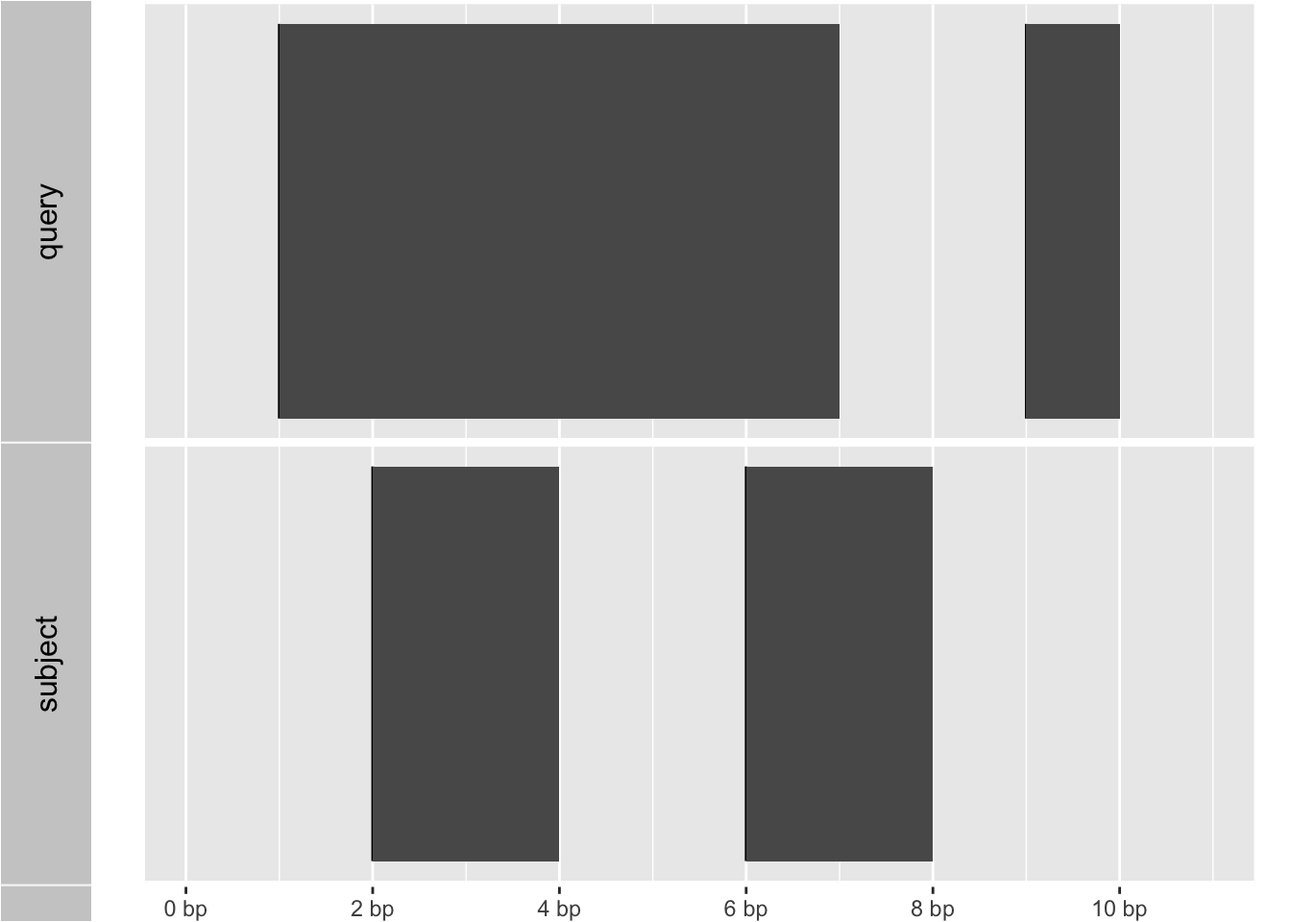
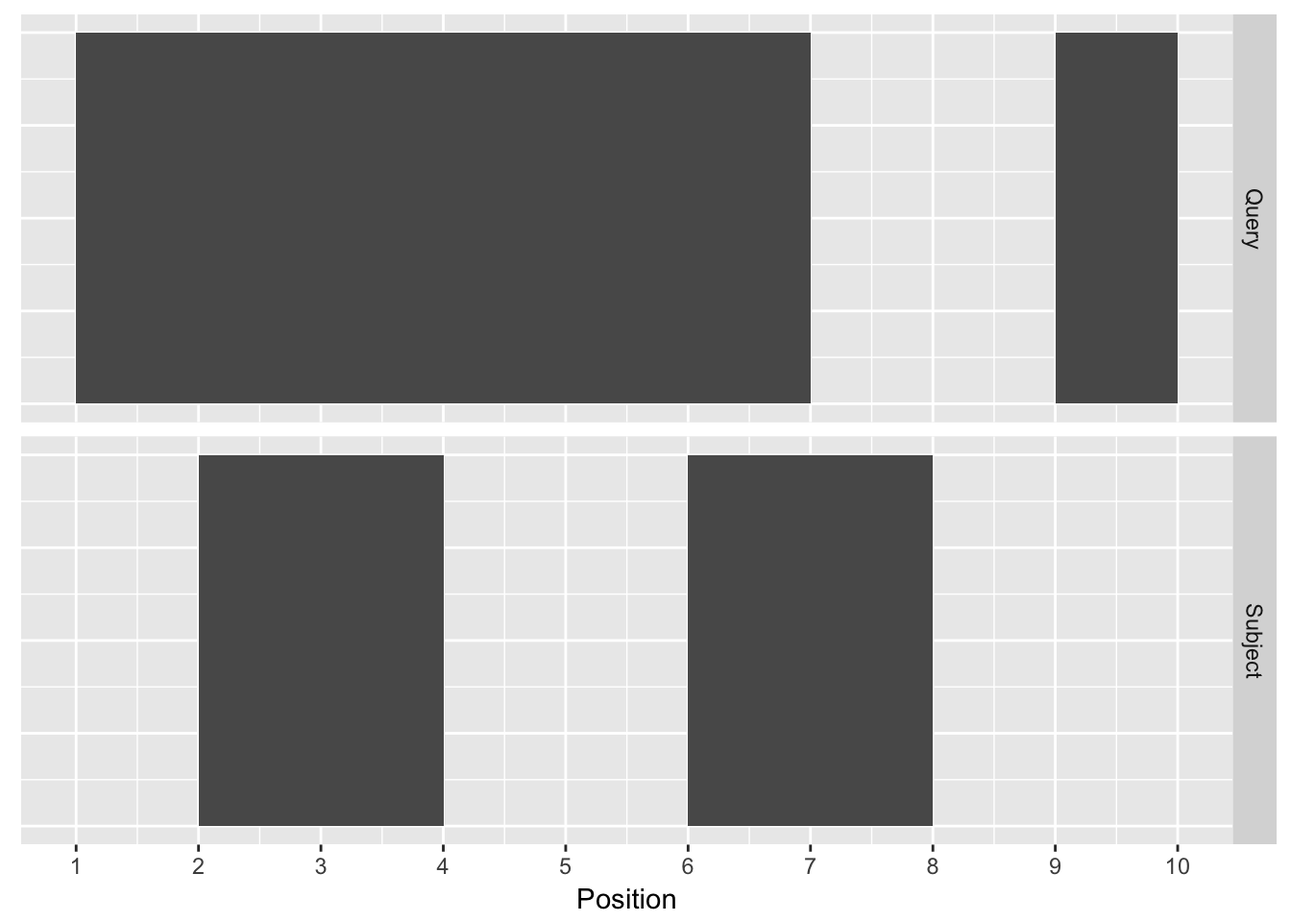
get rid of ggbio

diff --git a/docs/articles/an-introduction.html b/docs/articles/an-introduction.html
@@ -383,9 +383,23 @@ Query and Subject Ranges
 ##   [2]     chr1    [6, 7]      + |        a        B
 ##   -------
 ##   seqinfo: 1 sequence from an unspecified genome; no seqlengths</code></pre>
+<div class="sourceCode" id="cb54"><pre class="sourceCode r"><code class="sourceCode r"><a class="sourceLine" id="cb54-1" data-line-number="1">intersect_df &lt;-<span class="st"> </span><span class="kw">as.data.frame</span>(intersect_rng)[, <span class="op">-</span><span class="kw">c</span>(<span class="dv">6</span>,<span class="dv">7</span>)]</a>
+<a class="sourceLine" id="cb54-2" data-line-number="2">intersect_df<span class="op">$</span>key &lt;-<span class="st"> "Intersect Join"</span></a>
+<a class="sourceLine" id="cb54-3" data-line-number="3">melted_ranges &lt;-<span class="st"> </span><span class="kw">rbind</span>(query_df, subject_df, intersect_df)</a>
+<a class="sourceLine" id="cb54-4" data-line-number="4">melted_ranges<span class="op">$</span>key &lt;-<span class="st"> </span><span class="kw">factor</span>(melted_ranges<span class="op">$</span>key, </a>
+<a class="sourceLine" id="cb54-5" data-line-number="5">                              <span class="dt">levels =</span> <span class="kw">c</span>(<span class="st">"Query"</span>, <span class="st">"Subject"</span>, <span class="st">"Intersect Join"</span>))</a>
+<a class="sourceLine" id="cb54-6" data-line-number="6"><span class="kw">ggplot</span>(melted_ranges, <span class="kw">aes</span>(<span class="dt">xmin =</span> start, <span class="dt">xmax =</span> end, <span class="dt">ymin =</span> <span class="dv">1</span>, <span class="dt">ymax =</span> <span class="dv">3</span>)) <span class="op">+</span></a>
+<a class="sourceLine" id="cb54-7" data-line-number="7"><span class="st">  </span><span class="kw">geom_rect</span>() <span class="op">+</span><span class="st"> </span></a>
+<a class="sourceLine" id="cb54-8" data-line-number="8"><span class="st">  </span><span class="kw">facet_grid</span>(key <span class="op">~</span><span class="st"> </span>.) <span class="op">+</span></a>
+<a class="sourceLine" id="cb54-9" data-line-number="9"><span class="st">  </span><span class="kw">scale_x_continuous</span>(<span class="dt">breaks =</span> <span class="kw">seq</span>(<span class="dv">1</span>, <span class="dv">10</span>, <span class="dt">by =</span> <span class="dv">1</span>)) <span class="op">+</span></a>
+<a class="sourceLine" id="cb54-10" data-line-number="10"><span class="st">  </span><span class="kw">xlab</span>(<span class="st">"Position"</span>) <span class="op">+</span></a>
+<a class="sourceLine" id="cb54-11" data-line-number="11"><span class="st">  </span><span class="kw">theme</span>(<span class="dt">axis.text.y =</span> <span class="kw">element_blank</span>(),</a>
+<a class="sourceLine" id="cb54-12" data-line-number="12">        <span class="dt">axis.ticks.y =</span> <span class="kw">element_blank</span>(),</a>
+<a class="sourceLine" id="cb54-13" data-line-number="13">        <span class="dt">axis.title.y =</span> <span class="kw">element_blank</span>())</a></code></pre></div>
+<p><img src="an-introduction_files/figure-html/unnamed-chunk-14-1.png" width="672"></p>
 <p>The <code>join_overlap_inner</code> function will return the <code>Ranges</code> in the query that overlap any <code>Ranges</code> in the subject. Like the <code>join_overlap_intersect</code> function metadata of the subject <code>Range</code> is returned if it overlaps the query.</p>
-<div class="sourceCode" id="cb54"><pre class="sourceCode r"><code class="sourceCode r"><a class="sourceLine" id="cb54-1" data-line-number="1">inner_rng &lt;-<span class="st"> </span><span class="kw"><a href="../reference/overlap-joins.html">join_overlap_inner</a></span>(query, subject)</a>
-<a class="sourceLine" id="cb54-2" data-line-number="2">inner_rng</a></code></pre></div>
+<div class="sourceCode" id="cb55"><pre class="sourceCode r"><code class="sourceCode r"><a class="sourceLine" id="cb55-1" data-line-number="1">inner_rng &lt;-<span class="st"> </span><span class="kw"><a href="../reference/overlap-joins.html">join_overlap_inner</a></span>(query, subject)</a>
+<a class="sourceLine" id="cb55-2" data-line-number="2">inner_rng</a></code></pre></div>
 <pre><code>## GRanges object with 2 ranges and 2 metadata columns:
 ##       seqnames    ranges strand |    key.a    key.b
 ##          &lt;Rle&gt; &lt;IRanges&gt;  &lt;Rle&gt; | &lt;factor&gt; &lt;factor&gt;
@@ -394,12 +408,12 @@ Query and Subject Ranges
 ##   -------
 ##   seqinfo: 1 sequence from an unspecified genome; no seqlengths</code></pre>
 <div class="figure">
-<img src="an-introduction_files/figure-html/unnamed-chunk-15-1.png" alt="Inner Join" width="672"><p class="caption">
+<img src="an-introduction_files/figure-html/unnamed-chunk-16-1.png" alt="Inner Join" width="672"><p class="caption">
 Inner Join
 </p>
 </div>
 <p>We also provide a convienence method called <code>find_overlaps</code> that computes the same result as <code>join_overlap_inner</code>.</p>
-<div class="sourceCode" id="cb56"><pre class="sourceCode r"><code class="sourceCode r"><a class="sourceLine" id="cb56-1" data-line-number="1"><span class="kw"><a href="../reference/ranges-overlaps.html">find_overlaps</a></span>(query, subject)</a></code></pre></div>
+<div class="sourceCode" id="cb57"><pre class="sourceCode r"><code class="sourceCode r"><a class="sourceLine" id="cb57-1" data-line-number="1"><span class="kw"><a href="../reference/ranges-overlaps.html">find_overlaps</a></span>(query, subject)</a></code></pre></div>
 <pre><code>## GRanges object with 2 ranges and 2 metadata columns:
 ##       seqnames    ranges strand |    key.a    key.b
 ##          &lt;Rle&gt; &lt;IRanges&gt;  &lt;Rle&gt; | &lt;factor&gt; &lt;factor&gt;
@@ -409,8 +423,8 @@ Inner Join
 ##   seqinfo: 1 sequence from an unspecified genome; no seqlengths</code></pre>
 <p>The <code>join_overlap_left</code> method will perform an outer left join.</p>
 <p>First any overlaps that are found will be returned similar to <code>join_overlap_inner</code>. Then any non-overlapping ranges will be returned, with missing values on the metadata columns.</p>
-<div class="sourceCode" id="cb58"><pre class="sourceCode r"><code class="sourceCode r"><a class="sourceLine" id="cb58-1" data-line-number="1">left_rng &lt;-<span class="st"> </span><span class="kw"><a href="../reference/overlap-joins.html">join_overlap_left</a></span>(query, subject)</a>
-<a class="sourceLine" id="cb58-2" data-line-number="2">left_rng</a></code></pre></div>
+<div class="sourceCode" id="cb59"><pre class="sourceCode r"><code class="sourceCode r"><a class="sourceLine" id="cb59-1" data-line-number="1">left_rng &lt;-<span class="st"> </span><span class="kw"><a href="../reference/overlap-joins.html">join_overlap_left</a></span>(query, subject)</a>
+<a class="sourceLine" id="cb59-2" data-line-number="2">left_rng</a></code></pre></div>
 <pre><code>## GRanges object with 3 ranges and 2 metadata columns:
 ##       seqnames    ranges strand |    key.a    key.b
 ##          &lt;Rle&gt; &lt;IRanges&gt;  &lt;Rle&gt; | &lt;factor&gt; &lt;factor&gt;
@@ -420,7 +434,7 @@ Inner Join
 ##   -------
 ##   seqinfo: 2 sequences from an unspecified genome; no seqlengths</code></pre>
 <div class="figure">
-<img src="an-introduction_files/figure-html/unnamed-chunk-18-1.png" alt="Inner Join" width="672"><p class="caption">
+<img src="an-introduction_files/figure-html/unnamed-chunk-19-1.png" alt="Inner Join" width="672"><p class="caption">
 Inner Join
 </p>
 </div>
@@ -430,12 +444,12 @@ Inner Join
 <p>We have two <code>Ranges</code> objects. The first contains single nucleotide positions corresponding to an intensity measurement such as a ChiP-seq experiment, while the other contains coordinates for two genes of interest.</p>
 <p>We want to identify which positions in the <code>intensties</code> <code>Ranges</code> overlap the genes, where each row corresponds to a position that overlaps a single gene.</p>
 <p>First we create the two <code>Ranges</code> objects</p>
-<div class="sourceCode" id="cb60"><pre class="sourceCode r"><code class="sourceCode r"><a class="sourceLine" id="cb60-1" data-line-number="1">intensities &lt;-<span class="st"> </span><span class="kw">data.frame</span>(<span class="dt">seqnames =</span> <span class="st">"VI"</span>,</a>
-<a class="sourceLine" id="cb60-2" data-line-number="2">                          <span class="dt">start =</span> <span class="kw">c</span>(<span class="dv">3320</span><span class="op">:</span><span class="dv">3321</span>,<span class="dv">3330</span><span class="op">:</span><span class="dv">3331</span>,<span class="dv">3341</span><span class="op">:</span><span class="dv">3342</span>),</a>
-<a class="sourceLine" id="cb60-3" data-line-number="3">                          <span class="dt">width =</span> <span class="dv">1</span>) <span class="op">%&gt;%</span><span class="st"> </span></a>
-<a class="sourceLine" id="cb60-4" data-line-number="4"><span class="st">  </span><span class="kw"><a href="../reference/ranges-construct.html">as_granges</a></span>()</a>
-<a class="sourceLine" id="cb60-5" data-line-number="5"></a>
-<a class="sourceLine" id="cb60-6" data-line-number="6">intensities </a></code></pre></div>
+<div class="sourceCode" id="cb61"><pre class="sourceCode r"><code class="sourceCode r"><a class="sourceLine" id="cb61-1" data-line-number="1">intensities &lt;-<span class="st"> </span><span class="kw">data.frame</span>(<span class="dt">seqnames =</span> <span class="st">"VI"</span>,</a>
+<a class="sourceLine" id="cb61-2" data-line-number="2">                          <span class="dt">start =</span> <span class="kw">c</span>(<span class="dv">3320</span><span class="op">:</span><span class="dv">3321</span>,<span class="dv">3330</span><span class="op">:</span><span class="dv">3331</span>,<span class="dv">3341</span><span class="op">:</span><span class="dv">3342</span>),</a>
+<a class="sourceLine" id="cb61-3" data-line-number="3">                          <span class="dt">width =</span> <span class="dv">1</span>) <span class="op">%&gt;%</span><span class="st"> </span></a>
+<a class="sourceLine" id="cb61-4" data-line-number="4"><span class="st">  </span><span class="kw"><a href="../reference/ranges-construct.html">as_granges</a></span>()</a>
+<a class="sourceLine" id="cb61-5" data-line-number="5"></a>
+<a class="sourceLine" id="cb61-6" data-line-number="6">intensities </a></code></pre></div>
 <pre><code>## GRanges object with 6 ranges and 0 metadata columns:
 ##       seqnames       ranges strand
 ##          &lt;Rle&gt;    &lt;IRanges&gt;  &lt;Rle&gt;
@@ -447,13 +461,13 @@ Inner Join
 ##   [6]       VI [3342, 3342]      *
 ##   -------
 ##   seqinfo: 1 sequence from an unspecified genome; no seqlengths</code></pre>
-<div class="sourceCode" id="cb62"><pre class="sourceCode r"><code class="sourceCode r"><a class="sourceLine" id="cb62-1" data-line-number="1">genes &lt;-<span class="st"> </span><span class="kw">data.frame</span>(<span class="dt">seqnames =</span> <span class="st">"VI"</span>, </a>
-<a class="sourceLine" id="cb62-2" data-line-number="2">                    <span class="dt">start =</span> <span class="kw">c</span>(<span class="dv">3322</span>, <span class="dv">3030</span>),</a>
-<a class="sourceLine" id="cb62-3" data-line-number="3">                    <span class="dt">end =</span> <span class="kw">c</span>(<span class="dv">3846</span>, <span class="dv">3338</span>),</a>
-<a class="sourceLine" id="cb62-4" data-line-number="4">                    <span class="dt">gene_id=</span><span class="kw">c</span>(<span class="st">"YFL064C"</span>, <span class="st">"YFL065C"</span>)) <span class="op">%&gt;%</span><span class="st"> </span></a>
-<a class="sourceLine" id="cb62-5" data-line-number="5"><span class="st">  </span><span class="kw"><a href="../reference/ranges-construct.html">as_granges</a></span>()</a>
-<a class="sourceLine" id="cb62-6" data-line-number="6">                    </a>
-<a class="sourceLine" id="cb62-7" data-line-number="7">genes</a></code></pre></div>
+<div class="sourceCode" id="cb63"><pre class="sourceCode r"><code class="sourceCode r"><a class="sourceLine" id="cb63-1" data-line-number="1">genes &lt;-<span class="st"> </span><span class="kw">data.frame</span>(<span class="dt">seqnames =</span> <span class="st">"VI"</span>, </a>
+<a class="sourceLine" id="cb63-2" data-line-number="2">                    <span class="dt">start =</span> <span class="kw">c</span>(<span class="dv">3322</span>, <span class="dv">3030</span>),</a>
+<a class="sourceLine" id="cb63-3" data-line-number="3">                    <span class="dt">end =</span> <span class="kw">c</span>(<span class="dv">3846</span>, <span class="dv">3338</span>),</a>
+<a class="sourceLine" id="cb63-4" data-line-number="4">                    <span class="dt">gene_id=</span><span class="kw">c</span>(<span class="st">"YFL064C"</span>, <span class="st">"YFL065C"</span>)) <span class="op">%&gt;%</span><span class="st"> </span></a>
+<a class="sourceLine" id="cb63-5" data-line-number="5"><span class="st">  </span><span class="kw"><a href="../reference/ranges-construct.html">as_granges</a></span>()</a>
+<a class="sourceLine" id="cb63-6" data-line-number="6">                    </a>
+<a class="sourceLine" id="cb63-7" data-line-number="7">genes</a></code></pre></div>
 <pre><code>## GRanges object with 2 ranges and 1 metadata column:
 ##       seqnames       ranges strand |  gene_id
 ##          &lt;Rle&gt;    &lt;IRanges&gt;  &lt;Rle&gt; | &lt;factor&gt;
@@ -462,9 +476,9 @@ Inner Join
 ##   -------
 ##   seqinfo: 1 sequence from an unspecified genome; no seqlengths</code></pre>
 <p>Now to find where the positions overlap each gene, we can perform an overlap join. This will automatically carry over the gene_id information as well as their coordinates (we can drop those by only selecting the gene_id).</p>
-<div class="sourceCode" id="cb64"><pre class="sourceCode r"><code class="sourceCode r"><a class="sourceLine" id="cb64-1" data-line-number="1">olap &lt;-<span class="st"> </span><span class="kw"><a href="../reference/overlap-joins.html">join_overlap_inner</a></span>(intensities, genes) <span class="op">%&gt;%</span></a>
-<a class="sourceLine" id="cb64-2" data-line-number="2"><span class="st">  </span><span class="kw"><a href="http://dplyr.tidyverse.org/reference/select.html">select</a></span>(gene_id)</a>
-<a class="sourceLine" id="cb64-3" data-line-number="3">olap</a></code></pre></div>
+<div class="sourceCode" id="cb65"><pre class="sourceCode r"><code class="sourceCode r"><a class="sourceLine" id="cb65-1" data-line-number="1">olap &lt;-<span class="st"> </span><span class="kw"><a href="../reference/overlap-joins.html">join_overlap_inner</a></span>(intensities, genes) <span class="op">%&gt;%</span></a>
+<a class="sourceLine" id="cb65-2" data-line-number="2"><span class="st">  </span><span class="kw"><a href="http://dplyr.tidyverse.org/reference/select.html">select</a></span>(gene_id)</a>
+<a class="sourceLine" id="cb65-3" data-line-number="3">olap</a></code></pre></div>
 <pre><code>## GRanges object with 8 ranges and 1 metadata column:
 ##       seqnames       ranges strand |  gene_id
 ##          &lt;Rle&gt;    &lt;IRanges&gt;  &lt;Rle&gt; | &lt;factor&gt;
@@ -479,9 +493,9 @@ Inner Join
 ##   -------
 ##   seqinfo: 1 sequence from an unspecified genome; no seqlengths</code></pre>
 <p>Several positions match to both genes. We can count them using <code>summarise</code> and grouping by the <code>start</code> position:</p>
-<div class="sourceCode" id="cb66"><pre class="sourceCode r"><code class="sourceCode r"><a class="sourceLine" id="cb66-1" data-line-number="1">olap <span class="op">%&gt;%</span><span class="st"> </span></a>
-<a class="sourceLine" id="cb66-2" data-line-number="2"><span class="st">  </span><span class="kw"><a href="http://dplyr.tidyverse.org/reference/group_by.html">group_by</a></span>(start) <span class="op">%&gt;%</span></a>
-<a class="sourceLine" id="cb66-3" data-line-number="3"><span class="st">  </span><span class="kw"><a href="http://dplyr.tidyverse.org/reference/summarise.html">summarise</a></span>(<span class="dt">n =</span> <span class="kw"><a href="../reference/n.html">n</a></span>())</a></code></pre></div>
+<div class="sourceCode" id="cb67"><pre class="sourceCode r"><code class="sourceCode r"><a class="sourceLine" id="cb67-1" data-line-number="1">olap <span class="op">%&gt;%</span><span class="st"> </span></a>
+<a class="sourceLine" id="cb67-2" data-line-number="2"><span class="st">  </span><span class="kw"><a href="http://dplyr.tidyverse.org/reference/group_by.html">group_by</a></span>(start) <span class="op">%&gt;%</span></a>
+<a class="sourceLine" id="cb67-3" data-line-number="3"><span class="st">  </span><span class="kw"><a href="http://dplyr.tidyverse.org/reference/summarise.html">summarise</a></span>(<span class="dt">n =</span> <span class="kw"><a href="../reference/n.html">n</a></span>())</a></code></pre></div>
 <pre><code>## DataFrame with 6 rows and 2 columns
 ##       start         n
 ##   &lt;integer&gt; &lt;integer&gt;
@@ -495,7 +509,7 @@ Inner Join
 <p>We also provide methods for finding nearest, preceding or following <code>Ranges</code>.</p>
 <!--- ![Nearest neighbour joins](neighbours.png) --->
 <p>These methods are similar to the overlap joins described above.</p>
-<div class="sourceCode" id="cb68"><pre class="sourceCode r"><code class="sourceCode r"><a class="sourceLine" id="cb68-1" data-line-number="1"><span class="kw"><a href="../reference/ranges-nearest.html">join_nearest</a></span>(ir0, ir1)</a></code></pre></div>
+<div class="sourceCode" id="cb69"><pre class="sourceCode r"><code class="sourceCode r"><a class="sourceLine" id="cb69-1" data-line-number="1"><span class="kw"><a href="../reference/ranges-nearest.html">join_nearest</a></span>(ir0, ir1)</a></code></pre></div>
 <pre><code>## IRanges object with 4 ranges and 1 metadata column:
 ##           start       end     width |                gc
 ##       &lt;integer&gt; &lt;integer&gt; &lt;integer&gt; |         &lt;numeric&gt;
@@ -503,7 +517,7 @@ Inner Join
 ##   [2]        10        14         5 | 0.780358511023223
 ##   [3]        15        19         5 | 0.780358511023223
 ##   [4]        20        24         5 | 0.780358511023223</code></pre>
-<div class="sourceCode" id="cb70"><pre class="sourceCode r"><code class="sourceCode r"><a class="sourceLine" id="cb70-1" data-line-number="1"><span class="kw"><a href="../reference/ranges-follow.html">join_follow</a></span>(ir0, ir1)</a></code></pre></div>
+<div class="sourceCode" id="cb71"><pre class="sourceCode r"><code class="sourceCode r"><a class="sourceLine" id="cb71-1" data-line-number="1"><span class="kw"><a href="../reference/ranges-follow.html">join_follow</a></span>(ir0, ir1)</a></code></pre></div>
 <pre><code>## IRanges object with 4 ranges and 1 metadata column:
 ##           start       end     width |                gc
 ##       &lt;integer&gt; &lt;integer&gt; &lt;integer&gt; |         &lt;numeric&gt;
@@ -511,11 +525,11 @@ Inner Join
 ##   [2]        10        14         5 | 0.603324356488883
 ##   [3]        15        19         5 | 0.780358511023223
 ##   [4]        20        24         5 | 0.780358511023223</code></pre>
-<div class="sourceCode" id="cb72"><pre class="sourceCode r"><code class="sourceCode r"><a class="sourceLine" id="cb72-1" data-line-number="1"><span class="kw"><a href="../reference/precede-ranges.html">join_precede</a></span>(ir0, ir1) <span class="co"># nothing precedes returns empty `Ranges`</span></a></code></pre></div>
+<div class="sourceCode" id="cb73"><pre class="sourceCode r"><code class="sourceCode r"><a class="sourceLine" id="cb73-1" data-line-number="1"><span class="kw"><a href="../reference/precede-ranges.html">join_precede</a></span>(ir0, ir1) <span class="co"># nothing precedes returns empty `Ranges`</span></a></code></pre></div>
 <pre><code>## IRanges object with 0 ranges and 1 metadata column:
 ##        start       end     width |        gc
 ##    &lt;integer&gt; &lt;integer&gt; &lt;integer&gt; | &lt;numeric&gt;</code></pre>
-<div class="sourceCode" id="cb74"><pre class="sourceCode r"><code class="sourceCode r"><a class="sourceLine" id="cb74-1" data-line-number="1"><span class="kw"><a href="../reference/precede-ranges.html">join_precede</a></span>(ir1, ir0)</a></code></pre></div>
+<div class="sourceCode" id="cb75"><pre class="sourceCode r"><code class="sourceCode r"><a class="sourceLine" id="cb75-1" data-line-number="1"><span class="kw"><a href="../reference/precede-ranges.html">join_precede</a></span>(ir1, ir0)</a></code></pre></div>
 <pre><code>## IRanges object with 5 ranges and 1 metadata column:
 ##           start       end     width |                gc
 ##       &lt;integer&gt; &lt;integer&gt; &lt;integer&gt; |         &lt;numeric&gt;
@@ -527,9 +541,9 @@ Inner Join
 <p>For <code>GRanges</code> objects by default strand is not considered when performing overlap joins. To include strand when finding overlaps use append the prefix <code>directed</code>. To restrict overlapping <code>Ranges</code> to those within the query range use the prefix <code>within</code>.</p>
 </section><section id="grouping-by-overlaps" class="level2"><h2>Grouping by overlaps</h2>
 <p>It’s also possible to group by overlaps. Using this approach we can count the number of overlaps that are greater than 0.</p>
-<div class="sourceCode" id="cb76"><pre class="sourceCode r"><code class="sourceCode r"><a class="sourceLine" id="cb76-1" data-line-number="1">grp_by_olap &lt;-<span class="st"> </span>ir0 <span class="op">%&gt;%</span><span class="st"> </span></a>
-<a class="sourceLine" id="cb76-2" data-line-number="2"><span class="st">  </span><span class="kw"><a href="../reference/ranges-overlaps.html">group_by_overlaps</a></span>(ir1)</a>
-<a class="sourceLine" id="cb76-3" data-line-number="3">grp_by_olap</a></code></pre></div>
+<div class="sourceCode" id="cb77"><pre class="sourceCode r"><code class="sourceCode r"><a class="sourceLine" id="cb77-1" data-line-number="1">grp_by_olap &lt;-<span class="st"> </span>ir0 <span class="op">%&gt;%</span><span class="st"> </span></a>
+<a class="sourceLine" id="cb77-2" data-line-number="2"><span class="st">  </span><span class="kw"><a href="../reference/ranges-overlaps.html">group_by_overlaps</a></span>(ir1)</a>
+<a class="sourceLine" id="cb77-3" data-line-number="3">grp_by_olap</a></code></pre></div>
 <pre><code>## IRanges object with 6 ranges and 2 metadata columns:
 ## Groups: query
 ##           start       end     width |                gc     query
@@ -540,8 +554,8 @@ Inner Join
 ##   [4]         5         9         5 | 0.780358511023223         1
 ##   [5]        10        14         5 | 0.491231821943074         2
 ##   [6]        10        14         5 | 0.780358511023223         2</code></pre>
-<div class="sourceCode" id="cb78"><pre class="sourceCode r"><code class="sourceCode r"><a class="sourceLine" id="cb78-1" data-line-number="1">grp_by_olap <span class="op">%&gt;%</span></a>
-<a class="sourceLine" id="cb78-2" data-line-number="2"><span class="st">  </span><span class="kw"><a href="http://dplyr.tidyverse.org/reference/mutate.html">mutate</a></span>(<span class="dt">n_overlaps =</span> <span class="kw"><a href="../reference/n.html">n</a></span>())</a></code></pre></div>
+<div class="sourceCode" id="cb79"><pre class="sourceCode r"><code class="sourceCode r"><a class="sourceLine" id="cb79-1" data-line-number="1">grp_by_olap <span class="op">%&gt;%</span></a>
+<a class="sourceLine" id="cb79-2" data-line-number="2"><span class="st">  </span><span class="kw"><a href="http://dplyr.tidyverse.org/reference/mutate.html">mutate</a></span>(<span class="dt">n_overlaps =</span> <span class="kw"><a href="../reference/n.html">n</a></span>())</a></code></pre></div>
 <pre><code>## IRanges object with 6 ranges and 3 metadata columns:
 ## Groups: query
 ##           start       end     width |                gc     query
@@ -561,8 +575,8 @@ Inner Join
 ##   [5]          2
 ##   [6]          2</code></pre>
 <p>Of course we can also add overlap counts via the <code>count_overlaps</code> function.</p>
-<div class="sourceCode" id="cb80"><pre class="sourceCode r"><code class="sourceCode r"><a class="sourceLine" id="cb80-1" data-line-number="1">ir0 <span class="op">%&gt;%</span></a>
-<a class="sourceLine" id="cb80-2" data-line-number="2"><span class="st">  </span><span class="kw"><a href="http://dplyr.tidyverse.org/reference/mutate.html">mutate</a></span>(<span class="dt">n_overlaps =</span> <span class="kw"><a href="../reference/ranges-count-overlaps.Rd.html">count_overlaps</a></span>(., ir1))</a></code></pre></div>
+<div class="sourceCode" id="cb81"><pre class="sourceCode r"><code class="sourceCode r"><a class="sourceLine" id="cb81-1" data-line-number="1">ir0 <span class="op">%&gt;%</span></a>
+<a class="sourceLine" id="cb81-2" data-line-number="2"><span class="st">  </span><span class="kw"><a href="http://dplyr.tidyverse.org/reference/mutate.html">mutate</a></span>(<span class="dt">n_overlaps =</span> <span class="kw"><a href="../reference/ranges-count-overlaps.Rd.html">count_overlaps</a></span>(., ir1))</a></code></pre></div>
 <pre><code>## IRanges object with 4 ranges and 1 metadata column:
 ##           start       end     width | n_overlaps
 ##       &lt;integer&gt; &lt;integer&gt; &lt;integer&gt; |  &lt;integer&gt;
@@ -800,7 +814,7 @@ Inner Join
 </tr>
 </tbody>
 </table></section></section><section id="appendix" class="level1"><h1>Appendix</h1>
-<div class="sourceCode" id="cb82"><pre class="sourceCode r"><code class="sourceCode r"><a class="sourceLine" id="cb82-1" data-line-number="1"><span class="kw">sessionInfo</span>()</a></code></pre></div>
+<div class="sourceCode" id="cb83"><pre class="sourceCode r"><code class="sourceCode r"><a class="sourceLine" id="cb83-1" data-line-number="1"><span class="kw">sessionInfo</span>()</a></code></pre></div>
 <pre><code>## R version 3.4.3 (2017-11-30)
 ## Platform: x86_64-apple-darwin15.6.0 (64-bit)
 ## Running under: macOS Sierra 10.12.6
@@ -817,63 +831,38 @@ Inner Join
 ## [8] methods   base     
 ## 
 ## other attached packages:
-## [1] plyranges_0.1.0      GenomicRanges_1.30.2 GenomeInfoDb_1.14.0 
-## [4] IRanges_2.12.0       S4Vectors_0.16.0     BiocGenerics_0.24.0 
+## [1] ggplot2_2.2.1        plyranges_0.1.0      GenomicRanges_1.30.2
+## [4] GenomeInfoDb_1.14.0  IRanges_2.12.0       S4Vectors_0.16.0    
+## [7] BiocGenerics_0.24.0 
 ## 
 ## loaded via a namespace (and not attached):
-##   [1] ProtGenerics_1.10.0           bitops_1.0-6                 
-##   [3] matrixStats_0.53.0            bit64_0.9-7                  
-##   [5] RColorBrewer_1.1-2            progress_1.1.2               
-##   [7] httr_1.3.1                    rprojroot_1.3-2              
-##   [9] tools_3.4.3                   backports_1.1.2              
-##  [11] R6_2.2.2                      rpart_4.1-12                 
-##  [13] Hmisc_4.1-1                   DBI_0.7                      
-##  [15] lazyeval_0.2.1                colorspace_1.3-2             
-##  [17] nnet_7.3-12                   tidyselect_0.2.4             
-##  [19] gridExtra_2.3                 prettyunits_1.0.2            
-##  [21] GGally_1.3.2                  RMySQL_0.10.13               
-##  [23] curl_3.1                      bit_1.1-12                   
-##  [25] compiler_3.4.3                graph_1.56.0                 
-##  [27] Biobase_2.38.0                htmlTable_1.11.2             
-##  [29] DelayedArray_0.4.1            rtracklayer_1.38.3           
-##  [31] ggbio_1.26.0                  scales_0.5.0                 
-##  [33] checkmate_1.8.5               RBGL_1.54.0                  
-##  [35] stringr_1.3.0                 digest_0.6.15                
-##  [37] Rsamtools_1.30.0              foreign_0.8-69               
-##  [39] rmarkdown_1.8                 XVector_0.18.0               
-##  [41] base64enc_0.1-3               dichromat_2.0-0              
-##  [43] pkgconfig_2.0.1               htmltools_0.3.6              
-##  [45] highr_0.6                     ensembldb_2.2.0              
-##  [47] BSgenome_1.46.0               htmlwidgets_1.0              
-##  [49] rlang_0.2.0.9000              rstudioapi_0.7               
-##  [51] RSQLite_2.0                   BiocInstaller_1.28.0         
-##  [53] shiny_1.0.5                   bindr_0.1                    
-##  [55] BiocParallel_1.12.0           acepack_1.4.1                
-##  [57] dplyr_0.7.4                   VariantAnnotation_1.24.2     
-##  [59] RCurl_1.95-4.10               magrittr_1.5                 
-##  [61] GenomeInfoDbData_1.0.0        Formula_1.2-2                
-##  [63] Matrix_1.2-12                 Rcpp_0.12.15                 
-##  [65] munsell_0.4.3                 stringi_1.1.6                
-##  [67] yaml_2.1.16                   SummarizedExperiment_1.8.1   
-##  [69] zlibbioc_1.24.0               AnnotationHub_2.10.1         
-##  [71] plyr_1.8.4                    grid_3.4.3                   
-##  [73] blob_1.1.0                    lattice_0.20-35              
-##  [75] Biostrings_2.46.0             splines_3.4.3                
-##  [77] GenomicFeatures_1.30.0        knitr_1.18                   
-##  [79] pillar_1.2.1                  reshape2_1.4.3               
-##  [81] biomaRt_2.34.1                XML_3.98-1.9                 
-##  [83] glue_1.2.0                    evaluate_0.10.1              
-##  [85] biovizBase_1.26.0             latticeExtra_0.6-28          
-##  [87] data.table_1.10.4-3           httpuv_1.3.5                 
-##  [89] gtable_0.2.0                  purrr_0.2.4                  
-##  [91] tidyr_0.8.0                   reshape_0.8.7                
-##  [93] assertthat_0.2.0              ggplot2_2.2.1                
-##  [95] mime_0.5                      xtable_1.8-2                 
-##  [97] AnnotationFilter_1.2.0        survival_2.41-3              
-##  [99] OrganismDbi_1.20.0            tibble_1.4.2                 
-## [101] GenomicAlignments_1.14.1      AnnotationDbi_1.40.0         
-## [103] memoise_1.1.0                 bindrcpp_0.2                 
-## [105] cluster_2.0.6                 interactiveDisplayBase_1.16.0</code></pre>
+##  [1] Rcpp_0.12.15               highr_0.6                 
+##  [3] plyr_1.8.4                 pillar_1.2.1              
+##  [5] compiler_3.4.3             XVector_0.18.0            
+##  [7] bindr_0.1                  bitops_1.0-6              
+##  [9] tools_3.4.3                zlibbioc_1.24.0           
+## [11] digest_0.6.15              gtable_0.2.0              
+## [13] tibble_1.4.2               evaluate_0.10.1           
+## [15] lattice_0.20-35            pkgconfig_2.0.1           
+## [17] rlang_0.2.0.9000           Matrix_1.2-12             
+## [19] DelayedArray_0.4.1         yaml_2.1.16               
+## [21] bindrcpp_0.2               GenomeInfoDbData_1.0.0    
+## [23] rtracklayer_1.38.3         stringr_1.3.0             
+## [25] dplyr_0.7.4                knitr_1.18                
+## [27] Biostrings_2.46.0          tidyselect_0.2.4          
+## [29] rprojroot_1.3-2            grid_3.4.3                
+## [31] glue_1.2.0                 Biobase_2.38.0            
+## [33] R6_2.2.2                   XML_3.98-1.9              
+## [35] BiocParallel_1.12.0        rmarkdown_1.8             
+## [37] reshape2_1.4.3             purrr_0.2.4               
+## [39] tidyr_0.8.0                magrittr_1.5              
+## [41] scales_0.5.0               backports_1.1.2           
+## [43] Rsamtools_1.30.0           htmltools_0.3.6           
+## [45] matrixStats_0.53.0         GenomicAlignments_1.14.1  
+## [47] assertthat_0.2.0           SummarizedExperiment_1.8.1
+## [49] colorspace_1.3-2           labeling_0.3              
+## [51] stringi_1.1.6              lazyeval_0.2.1            
+## [53] munsell_0.4.3              RCurl_1.95-4.10</code></pre>
 </section>
 </div>
   </div>
